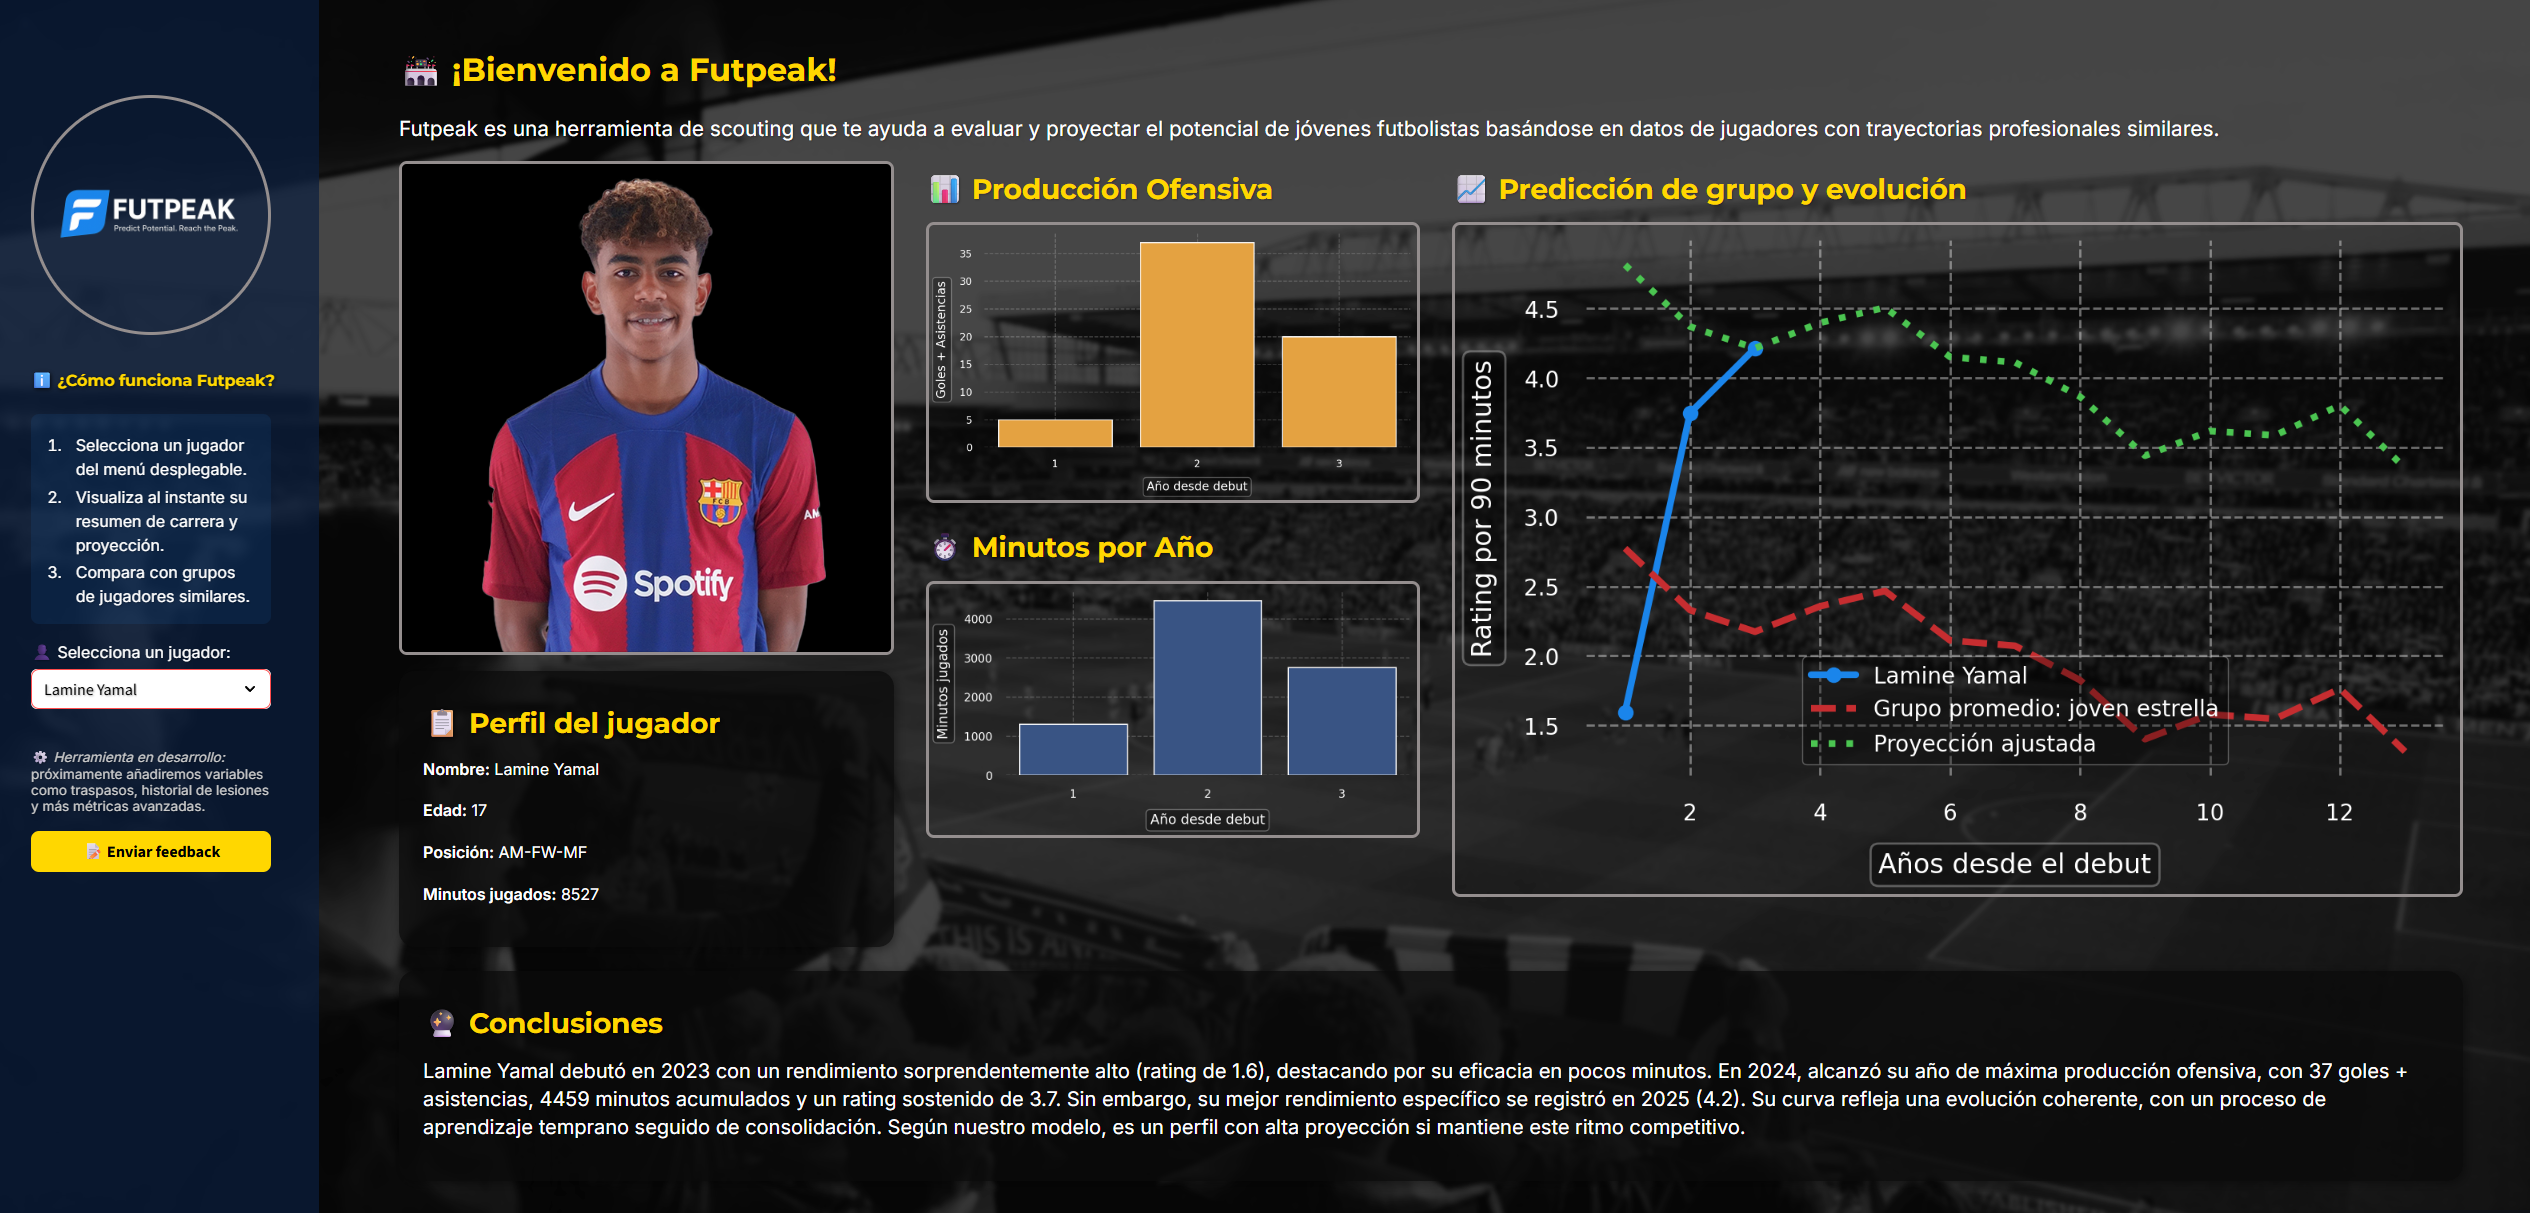
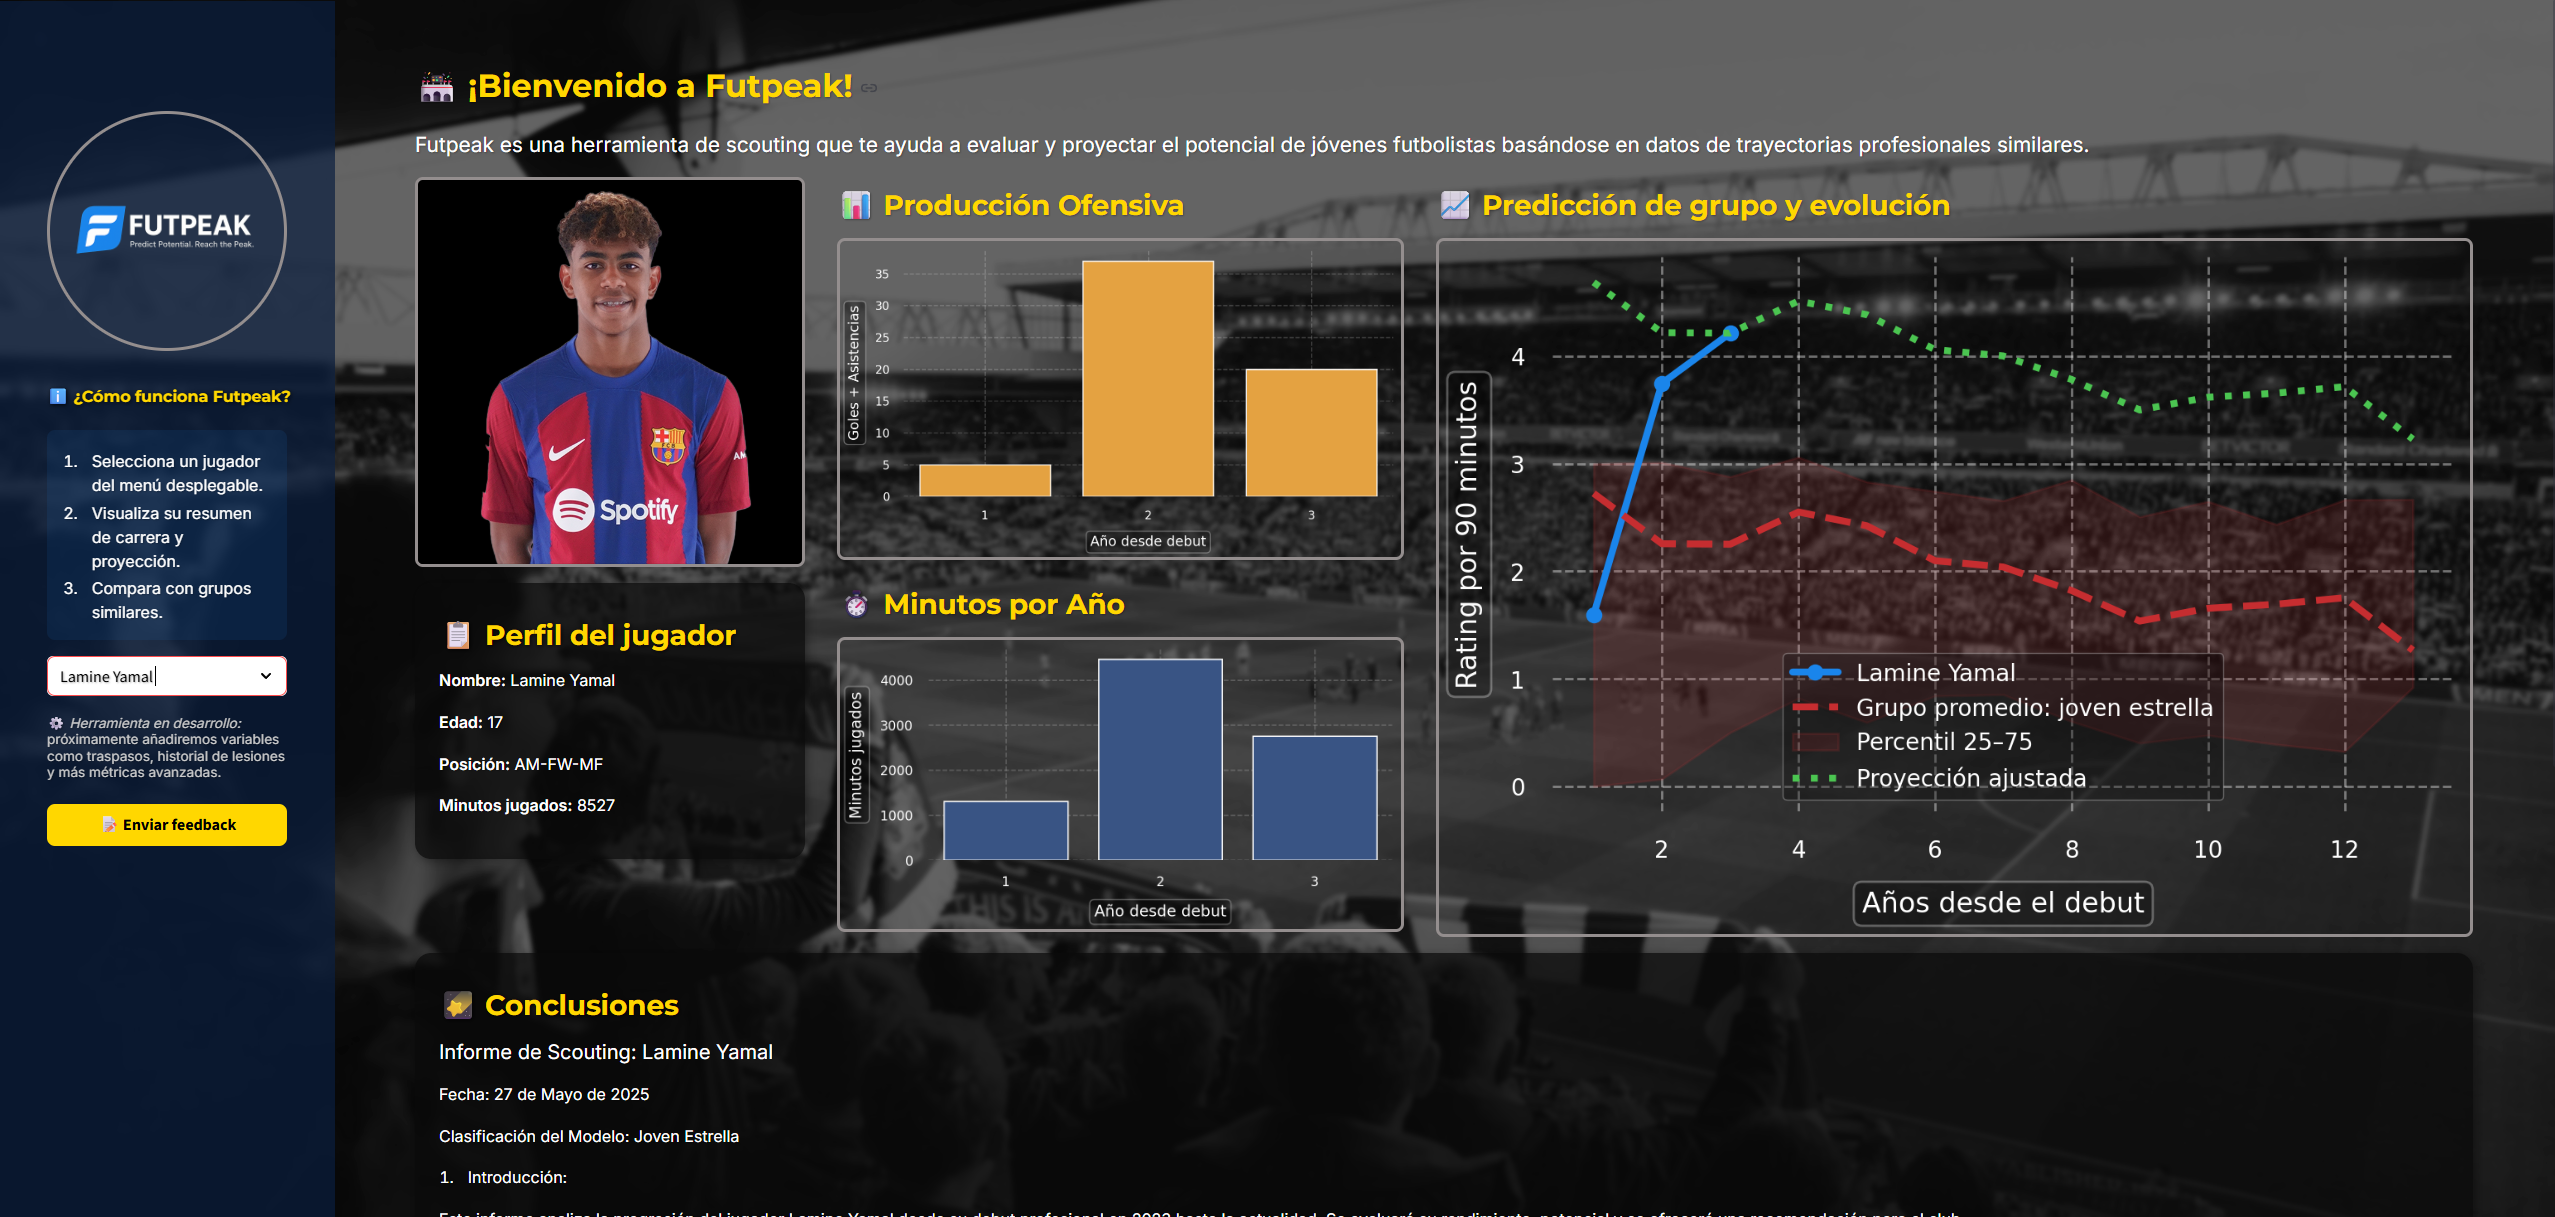
Arreglos de carga, adición de advertencia modo claro

diff --git a/src/app.py b/src/app.py
@@ -92,6 +92,21 @@ with st.sidebar:
         key="selected_player"
     )
 
+    if "selected_player_prev" not in st.session_state:
+        st.session_state.selected_player_prev = selected_player
+
+    if selected_player != st.session_state.selected_player_prev:
+        st.session_state.selected_player_prev = selected_player
+        st.rerun()
+
+
+    # Advertencia para modo claro
+    st.markdown("""
+        <p style="font-size: 0.85rem; background-color: #fff3cd; color: #856404; padding: 10px; border-radius: 6px; margin-top: 8px;">
+        ⚠ Si el selector no se ve correctamente, cambia tu navegador o dispositivo a <strong>modo claro</strong>.
+        </p>
+    """, unsafe_allow_html=True)
+
     st.markdown("""
         <p style="font-size: 0.85rem; color: #CCCCCC; margin-top: 0.2rem; line-height: 1.2;">
         ⚙ <em>Herramienta en desarrollo:</em> próximamente añadiremos variables como traspasos, historial de lesiones y más métricas avanzadas.
@@ -110,125 +125,102 @@ with st.sidebar:
 # 🏗 BLOQUE PRINCIPAL
 # ---------------------------
 
-if selected_player:
-    with st.spinner("🔄 Cargando perfil completo..."):
-
-        player_id = metadata.loc[metadata["Player_name"] == selected_player, "Player_ID"].values[0]
-
-        img = None
-        meta = {}
-        summary_df = pd.DataFrame()
-        seasonal = group_curve = label = None
-        fig_stats = fig_minutes = fig_proj = None
-        conclusion_text = ""
-
-        try:
-            img_path = get_player_image_path(selected_player, metadata)
-            if img_path and img_path.exists():
-                img = Image.open(img_path)
-        except Exception as e:
-            st.warning(f"⚠ Imagen no disponible: {e}")
-
-        try:
-            meta = get_metadata_by_player(selected_player, future=True)
-        except Exception as e:
-            st.warning(f"⚠ No se pudo cargar la metadata individual: {e}")
-
-        try:
-            summary_df = summarize_basic_stats(build_player_df(player_id))
-        except Exception as e:
-            st.warning(f"⚠ No se pudo calcular estadísticas básicas: {e}")
-
-        try:
-            label, seasonal, group_curve = predict_and_project_player(player_id)
-        except Exception as e:
-            st.warning(f"⚠ No se pudo generar proyección: {e}")
-
-        try:
-            fig_stats = plot_player_stats(player_id)
-        except Exception as e:
-            st.warning(f"⚠ Fallo al generar gráfico de producción: {e}")
-
-        try:
-            fig_minutes = plot_minutes_per_year(player_id)
-        except Exception as e:
-            st.warning(f"⚠ Fallo al generar gráfico de minutos: {e}")
-
-        try:
-            fig_proj = plot_rating_projection(selected_player, seasonal, group_curve, label)
-        except Exception as e:
-            st.warning(f"⚠ Fallo al generar gráfico de proyección: {e}")
-
-        try:
-            conclusion_text = generar_conclusion_completa(player_id).replace("## ", "")
-        except Exception as e:
-            st.warning(f"⚠ No se pudo generar la conclusión IA: {e}")
-
-        time.sleep(sleep_duration)
-
-# ---------------------------
-# 🏠 CONTENIDO PRINCIPAL
-# ---------------------------
-st.markdown("""
-    <h1 style="font-size:2rem; margin-bottom:0.5rem;">🏟 ¡Bienvenido a Futpeak!</h1>
-    <p style='font-size:1.3rem; line-height:1.5;'>
-      Futpeak es una herramienta de scouting que te ayuda a evaluar y proyectar el potencial  
-      de jóvenes futbolistas basándose en datos de trayectorias profesionales similares.
-    </p>
-""", unsafe_allow_html=True)
+placeholder = st.empty()
 
 if selected_player:
+    with placeholder.container():
+        with st.spinner("🔄 Cargando perfil completo..."):
 
-    col1, col2, col3 = st.columns([0.7, 1, 1.8], gap="medium")
+            player_id = metadata.loc[metadata["Player_name"] == selected_player, "Player_ID"].values[0]
 
-    with col1:
-        if img:
-            st.image(img, use_container_width=True)
-        else:
-            st.info("⚠ Imagen no disponible para este jugador.")
+            img = None
+            meta = {}
+            summary_df = pd.DataFrame()
+            seasonal = group_curve = label = None
+            fig_stats = fig_minutes = fig_proj = None
+            conclusion_text = ""
 
-        if meta:
-            raw_age = str(meta.get("Age", "N/A"))
-            age_display = raw_age.split("-")[0] if "-" in raw_age else raw_age
-            minutos = int(summary_df['Minutos totales'].iloc[0]) if not summary_df.empty else "N/A"
+            try:
+                img_path = get_player_image_path(selected_player, metadata)
+                if img_path and img_path.exists():
+                    img = Image.open(img_path)
+            except Exception as e:
+                st.warning(f"⚠ Imagen no disponible: {e}")
+
+            try:
+                meta = get_metadata_by_player(selected_player, future=True)
+                summary_df = summarize_basic_stats(build_player_df(player_id))
+                label, seasonal, group_curve = predict_and_project_player(player_id)
+                fig_stats = plot_player_stats(player_id)
+                fig_minutes = plot_minutes_per_year(player_id)
+                fig_proj = plot_rating_projection(selected_player, seasonal, group_curve, label)
+                conclusion_text = generar_conclusion_completa(player_id).replace("## ", "")
+            except Exception as e:
+                st.warning(f"⚠ Error durante la carga: {e}")
+
+            time.sleep(sleep_duration)
+
+    placeholder.empty()
+
+    with placeholder.container():
+        st.markdown("""
+            <h1 style="font-size:2rem; margin-bottom:0.5rem;">🏟 ¡Bienvenido a Futpeak!</h1>
+            <p style='font-size:1.3rem; line-height:1.5;'>
+              Futpeak es una herramienta de scouting que te ayuda a evaluar y proyectar el potencial  
+              de jóvenes futbolistas basándose en datos de trayectorias profesionales similares.
+            </p>
+        """, unsafe_allow_html=True)
+
+        col1, col2, col3 = st.columns([0.7, 1, 1.8], gap="medium")
+
+        with col1:
+            if img:
+                st.image(img, use_container_width=True)
+            else:
+                st.info("⚠ Imagen no disponible para este jugador.")
+
+            if meta:
+                raw_age = str(meta.get("Age", "N/A"))
+                age_display = raw_age.split("-")[0] if "-" in raw_age else raw_age
+                minutos = int(summary_df['Minutos totales'].iloc[0]) if not summary_df.empty else "N/A"
+                st.markdown(f"""
+                <div class='block-card'>
+                    <h3>📋 Perfil del jugador</h3>
+                    <p><strong>Nombre:</strong> {selected_player}</p>
+                    <p><strong>Edad:</strong> {age_display}</p>
+                    <p><strong>Posición:</strong> {meta.get('Position', 'N/A')}</p>
+                    <p><strong>Minutos jugados:</strong> {minutos}</p>
+                </div>
+                """, unsafe_allow_html=True)
+
+        with col2:
+            st.markdown("### 📊 Producción Ofensiva")
+            if fig_stats:
+                st.pyplot(fig_stats)
+            else:
+                st.warning("⚠ No se pudo generar esta gráfica.")
+
+            st.markdown("### ⏱ Minutos por Año")
+            if fig_minutes:
+                fig_minutes.set_size_inches(6, 3)
+                st.pyplot(fig_minutes)
+            else:
+                st.warning("⚠ No se pudo generar esta gráfica.")
+
+        with col3:
+            st.markdown("### 📈 Predicción de grupo y evolución")
+            if fig_proj:
+                fig_proj.set_size_inches(6, 4)
+                st.pyplot(fig_proj)
+            else:
+                st.warning("⚠ No se pudo generar esta gráfica.")
+
+        if conclusion_text:
             st.markdown(f"""
             <div class='block-card'>
-                <h3>📋 Perfil del jugador</h3>
-                <p><strong>Nombre:</strong> {selected_player}</p>
-                <p><strong>Edad:</strong> {age_display}</p>
-                <p><strong>Posición:</strong> {meta.get('Position', 'N/A')}</p>
-                <p><strong>Minutos jugados:</strong> {minutos}</p>
+              <h3>🌠 Conclusiones</h3>
+              <p style="font-size:20px; line-height:1.4;">
+                {conclusion_text}
+              </p>
             </div>
             """, unsafe_allow_html=True)
-
-    with col2:
-        st.markdown("### 📊 Producción Ofensiva")
-        if fig_stats:
-            st.pyplot(fig_stats)
-        else:
-            st.warning("⚠ No se pudo generar esta gráfica.")
-
-        st.markdown("### ⏱ Minutos por Año")
-        if fig_minutes:
-            fig_minutes.set_size_inches(6, 3)
-            st.pyplot(fig_minutes)
-        else:
-            st.warning("⚠ No se pudo generar esta gráfica.")
-
-    with col3:
-        st.markdown("### 📈 Predicción de grupo y evolución")
-        if fig_proj:
-            fig_proj.set_size_inches(6, 4)
-            st.pyplot(fig_proj)
-        else:
-            st.warning("⚠ No se pudo generar esta gráfica.")
-
-    if conclusion_text:
-        st.markdown(f"""
-        <div class='block-card'>
-          <h3>🌠 Conclusiones</h3>
-          <p style="font-size:20px; line-height:1.4;">
-            {conclusion_text}
-          </p>
-        </div>
-        """, unsafe_allow_html=True)
